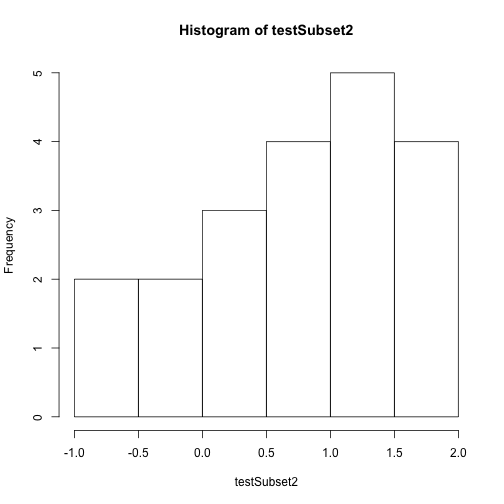
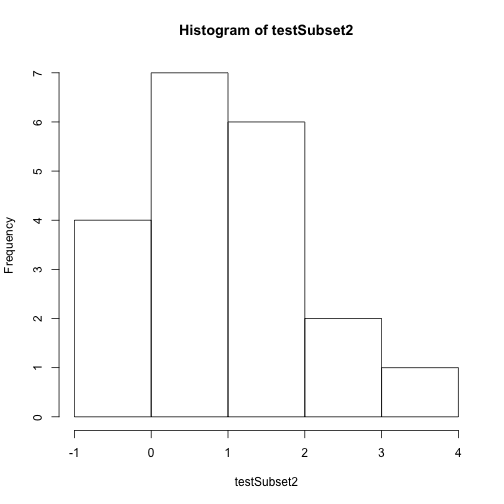
fixing syntax again

diff --git a/_posts/HDF5/2014-11-05-Intro-HDF5-R.md b/_posts/HDF5/2014-11-05-Intro-HDF5-R.md
@@ -135,26 +135,26 @@ are working with larger datasets!
     ## $aNEONSite
     ## $aNEONSite$temperature
     ##             [,1]        [,2]
-    ##  [1,]  0.2041662  0.86230480
-    ##  [2,] -0.3942254  1.25600517
-    ##  [3,]  0.7890953  1.54886213
-    ##  [4,]  1.1839738 -0.76477662
-    ##  [5,]  1.9236234  0.11141757
-    ##  [6,]  1.4980242  0.80292423
-    ##  [7,]  0.1776956  0.70877355
-    ##  [8,] -0.6315844  1.85544650
-    ##  [9,]  1.9357196  1.89809272
-    ## [10,] -0.6441069 -0.52890737
-    ## [11,]  1.2999089  0.20597469
-    ## [12,]  0.8973331  1.17204261
-    ## [13,]  0.7729340  1.68044347
-    ## [14,]  0.2695247  1.56866537
-    ## [15,] -0.1614768  1.14189660
-    ## [16,]  1.9660485  0.93291651
-    ## [17,]  0.9724265  1.32974314
-    ## [18,]  1.7153373  2.45993111
-    ## [19,]  1.2621799 -0.11167849
-    ## [20,]  1.1605317  0.07387847
+    ##  [1,]  1.4434345  1.20497150
+    ##  [2,]  2.0410237 -0.24985947
+    ##  [3,]  1.1898310  1.41531271
+    ##  [4,] -0.6444413  1.65813477
+    ##  [5,]  0.7140945  0.75516461
+    ##  [6,]  0.7201228  1.48618724
+    ##  [7,]  1.2936683 -0.60843522
+    ##  [8,]  0.7875152  2.73999881
+    ##  [9,]  1.3365978  1.81034505
+    ## [10,]  0.9810823 -0.62014445
+    ## [11,] -0.9702983  1.54326222
+    ## [12,] -0.4078438  1.17239500
+    ## [13,]  1.9381739  0.10716750
+    ## [14,] -0.1853881 -0.67652662
+    ## [15,]  3.3263851  1.04646594
+    ## [16,]  0.6067044 -0.13710939
+    ## [17,]  0.5354891  0.81122607
+    ## [18,]  1.3855594 -1.43693801
+    ## [19,]  0.3182579 -0.01952606
+    ## [20,]  2.5234143  1.17788174
 
     #Close the file. This is good practice.
     H5close()
